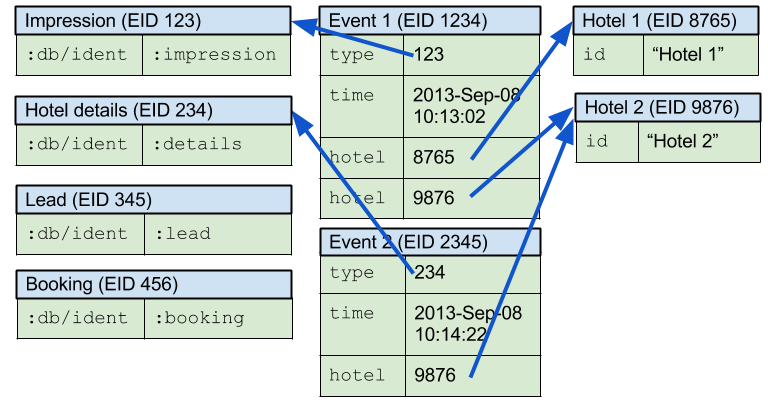
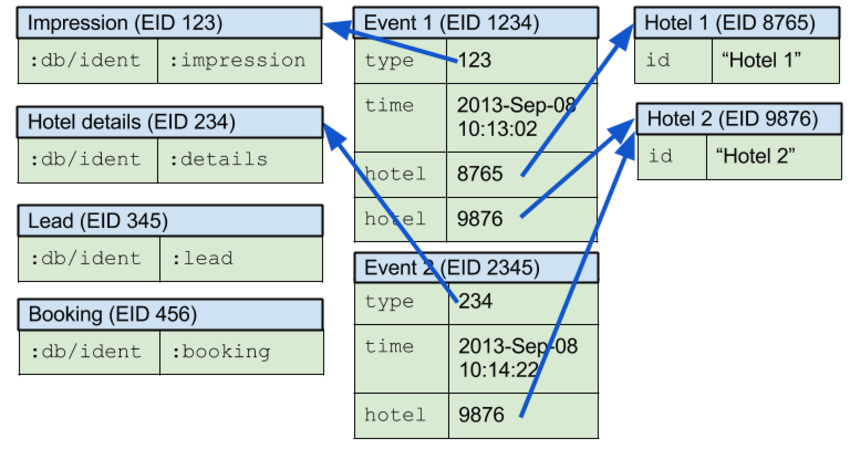
Numerous improvements

diff --git a/slides.html b/slides.html
@@ -7,7 +7,7 @@
 <meta http-equiv="Content-Type" content="text/html;charset=iso-8859-1"/>
 <meta name="title" content="Real World Datomic: An Experience Report"/>
 <meta name="generator" content="Org-mode"/>
-<meta name="generated" content="2013-09-11 18:13:31 EDT"/>
+<meta name="generated" content="2013-09-15 14:17:44 EDT"/>
 <meta name="author" content="Craig Andera"/>
 <meta name="description" content=""/>
 <meta name="keywords" content=""/>
@@ -79,7 +79,8 @@
 <h2 id="sec-1"><span class="section-number-2">1</span> Real-World Datomic: An Experience Report &nbsp;&nbsp;&nbsp;<span class="tag"><span class="title">title</span>&nbsp;<span class="slide">slide</span></span></h2>
 <div class="outline-text-2" id="text-1">
 
-
+<p><img src="cognitect-logo.jpg"  alt="cognitect-logo.jpg" />
+</p>
 
 
 
@@ -106,15 +107,11 @@
 </li>
 </ul>
 <ul>
-<li id="sec-1-1-1-3">craig@thinkrelevance.com<br/>
+<li id="sec-1-1-1-3">craig@cognitect.com<br/>
 </li>
 </ul>
 <ul>
-<li id="sec-1-1-1-4"><span class="todo TODO"> TODO</span> Podcast URL?<br/>
-</li>
-</ul>
-<ul>
-<li id="sec-1-1-1-5"><span class="todo TODO"> TODO</span> Update what needs updating<br/>
+<li id="sec-1-1-1-4"><a href="http://cognitect.com/podcast">http://cognitect.com/podcast</a><br/>
 </li>
 </ul>
 </div>
@@ -122,7 +119,7 @@
 </div>
 
 <div id="outline-container-1-1-2" class="outline-4">
-<h4 id="sec-1-1-2"><span class="section-number-4">1.1.2</span> Room Key</h4>
+<h4 id="sec-1-1-2"><span class="section-number-4">1.1.2</span> Room Key &nbsp;&nbsp;&nbsp;<span class="tag"><span class="slide">slide</span></span></h4>
 <div class="outline-text-4" id="text-1-1-2">
 
 <ul>
@@ -193,21 +190,25 @@
 <ul>
 <li id="sec-1-1-5-2">A datom is EAVT tuple<br/>
 <ul>
-<li id="sec-1-1-5-2-1"><code>Entity</code> The thing we're modeling<br/>
+<li id="sec-1-1-5-2-1"><code>Entity</code> - The thing we're modeling<br/>
 </li>
 </ul>
 <ul>
-<li id="sec-1-1-5-2-2"><code>Attribute</code> The aspect of the entity we're describing<br/>
+<li id="sec-1-1-5-2-2"><code>Attribute</code> - Which aspect we're describing<br/>
 </li>
 </ul>
 <ul>
-<li id="sec-1-1-5-2-3"><code>Value</code> The quantity of quality we're describing<br/>
+<li id="sec-1-1-5-2-3"><code>Value</code> - The quantity or quality<br/>
 </li>
 </ul>
 <ul>
-<li id="sec-1-1-5-2-4"><code>Time</code> When we learned this fact<br/>
+<li id="sec-1-1-5-2-4"><code>Time/Tx</code> - When we learned this fact<br/>
 </li>
 </ul>
+</li>
+</ul>
+<ul>
+<li id="sec-1-1-5-3"><i>Yesterday, as part of a transaction that happened at 3:02PM, I learned that Craig likes pizza</i><br/>
 </li>
 </ul>
 </div>
@@ -221,7 +222,7 @@
 <ul>
 <li id="sec-1-1-6-1">Have a <span style="text-decoration:underline;">type</span>, an <span style="text-decoration:underline;">ident</span>, and a <span style="text-decoration:underline;">cardinality</span><br/>
 <ul>
-<li id="sec-1-1-6-1-1">Optionally other stuff<br/>
+<li id="sec-1-1-6-1-1">Optionally other stuff, e.g. uniqueness<br/>
 </li>
 </ul>
 </li>
@@ -240,6 +241,10 @@
 <li id="sec-1-1-6-3-2">Allows datoms to form graphs<br/>
 </li>
 </ul>
+</li>
+</ul>
+<ul>
+<li id="sec-1-1-6-4">Set of defined attributes constitutes database schema<br/>
 </li>
 </ul>
 </div>
@@ -321,7 +326,7 @@
 </li>
 </ul>
 <ul>
-<li id="sec-1-1-11-2">Index is logically a sorted set of datoms<br/>
+<li id="sec-1-1-11-2">Index is (logically) a sorted set of datoms<br/>
 </li>
 </ul>
 <ul>
@@ -371,19 +376,19 @@
 
 <table border="2" cellspacing="0" cellpadding="6" rules="groups" frame="hsides">
 <caption></caption>
-<colgroup><col class="right" /><col class="left" /><col class="right" /><col class="right" />
+<colgroup><col class="left" /><col class="left" /><col class="left" /><col class="right" />
 </colgroup>
 <thead>
-<tr><th scope="col" class="right">E</th><th scope="col" class="left">A</th><th scope="col" class="right">V</th><th scope="col" class="right">T</th></tr>
+<tr><th scope="col" class="left">E</th><th scope="col" class="left">A</th><th scope="col" class="left">V</th><th scope="col" class="right">T</th></tr>
 </thead>
 <tbody>
-<tr><td class="right">1234</td><td class="left">type</td><td class="right">123</td><td class="right">1111</td></tr>
-<tr><td class="right">1234</td><td class="left">time</td><td class="right">10:13:02</td><td class="right">1111</td></tr>
-<tr><td class="right">1234</td><td class="left">hotel</td><td class="right">12345</td><td class="right">1111</td></tr>
-<tr><td class="right">1234</td><td class="left">hotel</td><td class="right">23456</td><td class="right">1111</td></tr>
-<tr><td class="right">2345</td><td class="left">type</td><td class="right">234</td><td class="right">2222</td></tr>
-<tr><td class="right">2345</td><td class="left">time</td><td class="right">10:14:22</td><td class="right">2222</td></tr>
-<tr><td class="right">2345</td><td class="left">hotel</td><td class="right">23456</td><td class="right">2222</td></tr>
+<tr><td class="left"><i>&lt;Event 1&gt;</i></td><td class="left">type</td><td class="left"><i>&lt;impression&gt;</i></td><td class="right">1111</td></tr>
+<tr><td class="left"><i>&lt;Event 1&gt;</i></td><td class="left">time</td><td class="left">10:13:02</td><td class="right">1111</td></tr>
+<tr><td class="left"><i>&lt;Event 1&gt;</i></td><td class="left">hotel</td><td class="left"><i>&lt;Hotel 1&gt;</i></td><td class="right">1111</td></tr>
+<tr><td class="left"><i>&lt;Event 1&gt;</i></td><td class="left">hotel</td><td class="left"><i>&lt;Hotel 2&gt;</i></td><td class="right">1111</td></tr>
+<tr><td class="left"><i>&lt;Event 2&gt;</i></td><td class="left">type</td><td class="left"><i>&lt;details&gt;</i></td><td class="right">2222</td></tr>
+<tr><td class="left"><i>&lt;Event 2&gt;</i></td><td class="left">time</td><td class="left">10:14:22</td><td class="right">2222</td></tr>
+<tr><td class="left"><i>&lt;Event 2&gt;</i></td><td class="left">hotel</td><td class="left"><i>&lt;Hotel 2&gt;</i></td><td class="right">2222</td></tr>
 </tbody>
 </table>
 
@@ -407,11 +412,11 @@
 <tbody>
 <tr><td class="right">1234</td><td class="right">26</td><td class="right">123</td><td class="right">1111</td></tr>
 <tr><td class="right">1234</td><td class="right">27</td><td class="right">10:13:02</td><td class="right">1111</td></tr>
-<tr><td class="right">1234</td><td class="right">28</td><td class="right">12345</td><td class="right">1111</td></tr>
-<tr><td class="right">1234</td><td class="right">28</td><td class="right">23456</td><td class="right">1111</td></tr>
+<tr><td class="right">1234</td><td class="right">28</td><td class="right">8765</td><td class="right">1111</td></tr>
+<tr><td class="right">1234</td><td class="right">28</td><td class="right">9876</td><td class="right">1111</td></tr>
 <tr><td class="right">2345</td><td class="right">26</td><td class="right">234</td><td class="right">2222</td></tr>
 <tr><td class="right">2345</td><td class="right">27</td><td class="right">10:14:22</td><td class="right">2222</td></tr>
-<tr><td class="right">2345</td><td class="right">28</td><td class="right">23456</td><td class="right">2222</td></tr>
+<tr><td class="right">2345</td><td class="right">28</td><td class="right">9876</td><td class="right">2222</td></tr>
 </tbody>
 </table>
 
@@ -427,19 +432,19 @@
 
 <table border="2" cellspacing="0" cellpadding="6" rules="groups" frame="hsides">
 <caption></caption>
-<colgroup><col class="right" /><col class="left" /><col class="right" /><col class="right" />
+<colgroup><col class="left" /><col class="left" /><col class="left" /><col class="right" />
 </colgroup>
 <thead>
-<tr><th scope="col" class="right">E</th><th scope="col" class="left">A</th><th scope="col" class="right">V</th><th scope="col" class="right">T</th></tr>
+<tr><th scope="col" class="left">E</th><th scope="col" class="left">A</th><th scope="col" class="left">V</th><th scope="col" class="right">T</th></tr>
 </thead>
 <tbody>
-<tr><td class="right">1234</td><td class="left">type</td><td class="right">123</td><td class="right">1111</td></tr>
-<tr><td class="right">2345</td><td class="left">type</td><td class="right">234</td><td class="right">2222</td></tr>
-<tr><td class="right">1234</td><td class="left">time</td><td class="right">10:13:02</td><td class="right">1111</td></tr>
-<tr><td class="right">2345</td><td class="left">time</td><td class="right">10:14:22</td><td class="right">2222</td></tr>
-<tr><td class="right">1234</td><td class="left">hotel</td><td class="right">12345</td><td class="right">1111</td></tr>
-<tr><td class="right">1234</td><td class="left">hotel</td><td class="right">23456</td><td class="right">1111</td></tr>
-<tr><td class="right">2345</td><td class="left">hotel</td><td class="right">23456</td><td class="right">2222</td></tr>
+<tr><td class="left"><i>&lt;Event 1&gt;</i></td><td class="left">type</td><td class="left"><i>&lt;impression&gt;</i></td><td class="right">1111</td></tr>
+<tr><td class="left"><i>&lt;Event 2&gt;</i></td><td class="left">type</td><td class="left"><i>&lt;details&gt;</i></td><td class="right">2222</td></tr>
+<tr><td class="left"><i>&lt;Event 1&gt;</i></td><td class="left">time</td><td class="left">10:13:02</td><td class="right">1111</td></tr>
+<tr><td class="left"><i>&lt;Event 2&gt;</i></td><td class="left">time</td><td class="left">10:14:22</td><td class="right">2222</td></tr>
+<tr><td class="left"><i>&lt;Event 2&gt;</i></td><td class="left">hotel</td><td class="left"><i>&lt;Hotel 1&gt;</i></td><td class="right">1111</td></tr>
+<tr><td class="left"><i>&lt;Event 1&gt;</i></td><td class="left">hotel</td><td class="left"><i>&lt;Hotel 2&gt;</i></td><td class="right">1111</td></tr>
+<tr><td class="left"><i>&lt;Event 2&gt;</i></td><td class="left">hotel</td><td class="left"><i>&lt;Hotel 2&gt;</i></td><td class="right">2222</td></tr>
 </tbody>
 </table>
 
@@ -491,14 +496,14 @@
 
 <table border="2" cellspacing="0" cellpadding="6" rules="groups" frame="hsides">
 <caption></caption>
-<colgroup><col class="right" /><col class="left" /><col class="left" /><col class="right" />
+<colgroup><col class="left" /><col class="left" /><col class="left" /><col class="right" />
 </colgroup>
 <thead>
-<tr><th scope="col" class="right">E</th><th scope="col" class="left">A</th><th scope="col" class="left">V</th><th scope="col" class="right">T</th></tr>
+<tr><th scope="col" class="left">E</th><th scope="col" class="left">A</th><th scope="col" class="left">V</th><th scope="col" class="right">T</th></tr>
 </thead>
 <tbody>
-<tr><td class="right">12345</td><td class="left">id</td><td class="left">"Hotel 1"</td><td class="right">888</td></tr>
-<tr><td class="right">23456</td><td class="left">id</td><td class="left">"Hotel 2"</td><td class="right">999</td></tr>
+<tr><td class="left"><i>&lt;Hotel 1&gt;</i></td><td class="left">id</td><td class="left">"Hotel 1"</td><td class="right">888</td></tr>
+<tr><td class="left"><i>&lt;Hotel 2&gt;</i></td><td class="left">id</td><td class="left">"Hotel 2"</td><td class="right">999</td></tr>
 </tbody>
 </table>
 
@@ -514,17 +519,17 @@
 
 <table border="2" cellspacing="0" cellpadding="6" rules="groups" frame="hsides">
 <caption></caption>
-<colgroup><col class="right" /><col class="left" /><col class="right" /><col class="right" />
+<colgroup><col class="left" /><col class="left" /><col class="left" /><col class="right" />
 </colgroup>
 <thead>
-<tr><th scope="col" class="right">E</th><th scope="col" class="left">A</th><th scope="col" class="right">V</th><th scope="col" class="right">T</th></tr>
+<tr><th scope="col" class="left">E</th><th scope="col" class="left">A</th><th scope="col" class="left">V</th><th scope="col" class="right">T</th></tr>
 </thead>
 <tbody>
-<tr><td class="right">1234</td><td class="left">type</td><td class="right">123</td><td class="right">1111</td></tr>
-<tr><td class="right">2345</td><td class="left">type</td><td class="right">234</td><td class="right">2222</td></tr>
-<tr><td class="right">1234</td><td class="left">hotel</td><td class="right">12345</td><td class="right">1111</td></tr>
-<tr><td class="right">1234</td><td class="left">hotel</td><td class="right">23456</td><td class="right">1111</td></tr>
-<tr><td class="right">2345</td><td class="left">hotel</td><td class="right">23456</td><td class="right">2222</td></tr>
+<tr><td class="left"><i>&lt;Event 1&gt;</i></td><td class="left">type</td><td class="left"><i>&lt;impression&gt;</i></td><td class="right">1111</td></tr>
+<tr><td class="left"><i>&lt;Event 2&gt;</i></td><td class="left">type</td><td class="left"><i>&lt;details&gt;</i></td><td class="right">2222</td></tr>
+<tr><td class="left"><i>&lt;Event 1&gt;</i></td><td class="left">hotel</td><td class="left"><i>&lt;Hotel 1&gt;</i></td><td class="right">1111</td></tr>
+<tr><td class="left"><i>&lt;Event 1&gt;</i></td><td class="left">hotel</td><td class="left"><i>&lt;Hotel 2&gt;</i></td><td class="right">1111</td></tr>
+<tr><td class="left"><i>&lt;Event 2&gt;</i></td><td class="left">hotel</td><td class="left"><i>&lt;Hotel 2&gt;</i></td><td class="right">2222</td></tr>
 </tbody>
 </table>
 
@@ -554,11 +559,11 @@
 </li>
 </ul>
 <ul>
-<li id="sec-1-1-19-5">Actual indexing happens less frequently<br/>
+<li id="sec-1-1-19-5">Persistent indexes built less frequently<br/>
 </li>
 </ul>
 <ul>
-<li id="sec-1-1-19-6">Peers pull segments the appropriate index as needed<br/>
+<li id="sec-1-1-19-6">Peers pull segments from the appropriate index as needed<br/>
 </li>
 </ul>
 </div>
@@ -632,35 +637,35 @@
 <div class="outline-text-4" id="text-1-1-23">
 
 <ul>
-<li id="sec-1-1-23-1">Stop recording time explicitly<br/>
+<li id="sec-1-1-23-1">A big, giant cache<br/>
 </li>
 </ul>
 <ul>
-<li id="sec-1-1-23-2">Record events using a dedicated partition<br/>
+<li id="sec-1-1-23-2">Stop recording time explicitly<br/>
 </li>
 </ul>
 <ul>
-<li id="sec-1-1-23-3">Use <code>seek-datoms</code><br/>
-<ul>
-<li id="sec-1-1-23-3-1">Returns <code>java.lang.Iterable</code> over raw index data<br/>
+<li id="sec-1-1-23-3">Record events using a dedicated partition<br/>
 </li>
 </ul>
 <ul>
-<li id="sec-1-1-23-3-2">Fast, lazy, reduceable<br/>
-</li>
-</ul>
+<li id="sec-1-1-23-4">Use <code>seek-datoms</code><br/>
+<ul>
+<li id="sec-1-1-23-4-1">Returns <code>java.lang.Iterable</code> over raw index data<br/>
 </li>
 </ul>
 <ul>
-<li id="sec-1-1-23-4"><code>entid-at</code><br/>
-<ul>
-<li id="sec-1-1-23-4-1">Given a time and a partition, get an EID<br/>
+<li id="sec-1-1-23-4-2">Fast, lazy, reduceable<br/>
 </li>
 </ul>
 </li>
 </ul>
 <ul>
-<li id="sec-1-1-23-5">A big, giant cache<br/>
+<li id="sec-1-1-23-5"><code>entid-at</code><br/>
+<ul>
+<li id="sec-1-1-23-5-1">Given a time and a partition, get an EID<br/>
+</li>
+</ul>
 </li>
 </ul>
 </div>
@@ -674,7 +679,7 @@
 
 
 
-<pre class="src src-clojure">(<span style="color: #00ffff;">defn-</span> <span style="color: #87cefa;">datoms-between</span>
+<pre class="src src-clojure">(<span style="color: #00ffff;">defn</span> <span style="color: #87cefa;">datoms-between</span>
   <span style="color: #ffa07a;">"Returns a reducible collection of datoms created</span>
 <span style="color: #ffa07a;">  between the start and end dates in a single partition."</span>
   [db partition start end]
@@ -699,11 +704,15 @@
 <ul>
 <li id="sec-1-1-25-1">Datalog is a big deal<br/>
 <ul>
-<li id="sec-1-1-25-1-1">Query as data<br/>
+<li id="sec-1-1-25-1-1">Joins!<br/>
 </li>
 </ul>
 <ul>
-<li id="sec-1-1-25-1-2">Future improvements to query<br/>
+<li id="sec-1-1-25-1-2">Query as data<br/>
+</li>
+</ul>
+<ul>
+<li id="sec-1-1-25-1-3">Future improvements to query<br/>
 </li>
 </ul>
 </li>
@@ -723,19 +732,23 @@
 <ul>
 <li id="sec-1-1-26-1">Appreciations<br/>
 <ul>
-<li id="sec-1-1-26-1-1">Tim Ewald<br/>
+<li id="sec-1-1-26-1-1">Room Key<br/>
 </li>
 </ul>
 <ul>
-<li id="sec-1-1-26-1-2">Rich Hickey<br/>
+<li id="sec-1-1-26-1-2">Tim Ewald<br/>
 </li>
 </ul>
 <ul>
-<li id="sec-1-1-26-1-3">Bobby Calderwood<br/>
+<li id="sec-1-1-26-1-3">Rich Hickey<br/>
 </li>
 </ul>
 <ul>
-<li id="sec-1-1-26-1-4">Stuart Halloway<br/>
+<li id="sec-1-1-26-1-4">Bobby Calderwood<br/>
+</li>
+</ul>
+<ul>
+<li id="sec-1-1-26-1-5">Stuart Halloway<br/>
 </li>
 </ul>
 </li>
@@ -790,7 +803,7 @@
 </div>
 
 <div id="postamble">
-<p class="date">Date: 2013-09-11 18:13:31 EDT</p>
+<p class="date">Date: 2013-09-15 14:17:44 EDT</p>
 <p class="author">Author: Craig Andera</p>
 <p class="creator">Org version 7.8.03 with Emacs version 24</p>
 <a href="http://validator.w3.org/check?uri=referer">Validate XHTML 1.0</a>

diff --git a/local.css b/local.css
@@ -68,6 +68,7 @@ thead {
 .eavt-table table td {
     border-style: solid;
     border-width: 1px;
+    padding: 10px 25px;
 }
 
 p.image {
